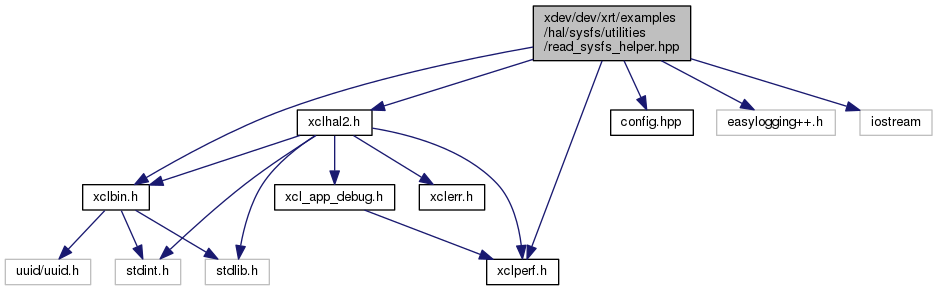
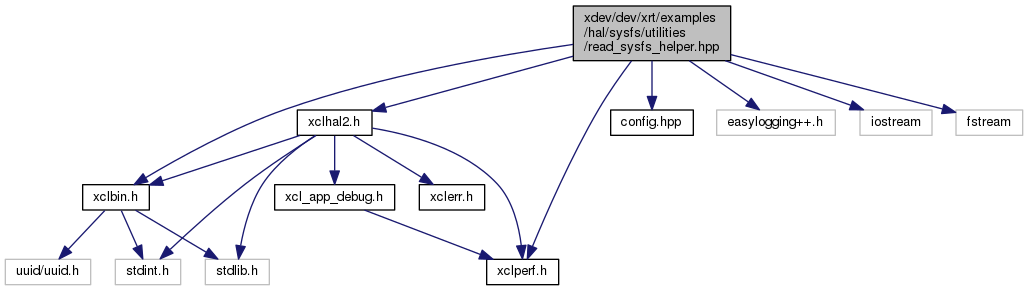
update developer doc

Changed region(s): [[0.0, 0.0, 0.9904, 0.9897], [0.8047, 0.2784, 0.8356, 0.3093], [0.4642, 0.4948, 0.4952, 0.5258]]

diff --git a/docs/developer/html/sysfs__demo_8cpp_source.html b/docs/developer/html/sysfs__demo_8cpp_source.html
@@ -89,7 +89,7 @@ var searchBox = new SearchBox("searchBox", "search",false,'Search');
 <div class="title">sysfs_demo.cpp</div>  </div>
 </div><!--header-->
 <div class="contents">
-<a href="sysfs__demo_8cpp.html">Go to the documentation of this file.</a><div class="fragment"><div class="line"><a name="l00001"></a><span class="lineno">    1</span>&#160;</div><div class="line"><a name="l00003"></a><span class="lineno">    3</span>&#160;<span class="preprocessor">#include &quot;xclhal2.h&quot;</span></div><div class="line"><a name="l00004"></a><span class="lineno">    4</span>&#160;<span class="preprocessor">#include &quot;xclperf.h&quot;</span></div><div class="line"><a name="l00005"></a><span class="lineno">    5</span>&#160;<span class="preprocessor">#include &quot;xclbin.h&quot;</span></div><div class="line"><a name="l00006"></a><span class="lineno">    6</span>&#160;<span class="preprocessor">#include &quot;<a class="code" href="read__sysfs__helper_8hpp.html">read_sysfs_helper.hpp</a>&quot;</span></div><div class="line"><a name="l00007"></a><span class="lineno">    7</span>&#160;<span class="preprocessor">#include &quot;<a class="code" href="visualize__debug__ip__layout__helper_8hpp.html">visualize_debug_ip_layout_helper.hpp</a>&quot;</span></div><div class="line"><a name="l00008"></a><span class="lineno">    8</span>&#160;<span class="preprocessor">#include &quot;easylogging++.h&quot;</span></div><div class="line"><a name="l00009"></a><span class="lineno">    9</span>&#160;<span class="preprocessor">#include &quot;<a class="code" href="xclbin__helper_8hpp.html">xclbin_helper.hpp</a>&quot;</span></div><div class="line"><a name="l00010"></a><span class="lineno">   10</span>&#160;<span class="preprocessor">#include &lt;iostream&gt;</span></div><div class="line"><a name="l00011"></a><span class="lineno">   11</span>&#160;</div><div class="line"><a name="l00012"></a><span class="lineno">   12</span>&#160;INITIALIZE_EASYLOGGINGPP</div><div class="line"><a name="l00013"></a><span class="lineno">   13</span>&#160;</div><div class="line"><a name="l00014"></a><span class="lineno">   14</span>&#160;<span class="keyword">using namespace </span><a class="code" href="namespacestd.html">std</a>;</div><div class="line"><a name="l00015"></a><span class="lineno">   15</span>&#160;</div><div class="line"><a name="l00027"></a><span class="lineno"><a class="line" href="group__hal__api__demo.html#gadfa50500e1075c9fabbecbf1c06fdebd">   27</a></span>&#160;<span class="keywordtype">int</span> <a class="code" href="group__hal__api__demo.html#gadfa50500e1075c9fabbecbf1c06fdebd">sysfs_demo</a>(<span class="keywordtype">int</span> argc, <span class="keywordtype">char</span>* argv[]) {</div><div class="line"><a name="l00032"></a><span class="lineno">   32</span>&#160;    START_EASYLOGGINGPP(argc, argv);</div><div class="line"><a name="l00033"></a><span class="lineno">   33</span>&#160;    LOG(INFO) &lt;&lt; <span class="stringliteral">&quot;Starting Sysfs HAL API example ...&quot;</span>;</div><div class="line"><a name="l00034"></a><span class="lineno">   34</span>&#160;    <span class="keywordtype">int</span> device_count = <a class="code" href="group__devman.html#ga3807247726142d702a848490a7fc6c34">xclProbe</a>();</div><div class="line"><a name="l00035"></a><span class="lineno">   35</span>&#160;    LOG(INFO) &lt;&lt; <span class="stringliteral">&quot;Found &quot;</span> &lt;&lt; device_count &lt;&lt; <span class="stringliteral">&quot; devices&quot;</span>;</div><div class="line"><a name="l00036"></a><span class="lineno">   36</span>&#160;    <span class="keywordflow">if</span> (device_count == 0) {</div><div class="line"><a name="l00037"></a><span class="lineno">   37</span>&#160;        LOG(ERROR) &lt;&lt; <span class="stringliteral">&quot;No device found&quot;</span>;</div><div class="line"><a name="l00038"></a><span class="lineno">   38</span>&#160;        <span class="keywordflow">return</span> -1;</div><div class="line"><a name="l00039"></a><span class="lineno">   39</span>&#160;    }</div><div class="line"><a name="l00040"></a><span class="lineno">   40</span>&#160;    LOG(INFO) &lt;&lt; <span class="stringliteral">&quot;Opening device[0] ...&quot;</span>;</div><div class="line"><a name="l00041"></a><span class="lineno">   41</span>&#160;    <span class="keywordtype">unsigned</span> device_index = 0;</div><div class="line"><a name="l00042"></a><span class="lineno">   42</span>&#160;    xclDeviceHandle device_handle = <a class="code" href="group__devman.html#ga6b427f31409aa2a1e6381cbe6a0620f2">xclOpen</a>(device_index, <span class="stringliteral">&quot;sysfs_example.log&quot;</span>, xclVerbosityLevel::XCL_INFO);</div><div class="line"><a name="l00043"></a><span class="lineno">   43</span>&#160;    LOG(INFO) &lt;&lt; <span class="stringliteral">&quot;device[0] opened&quot;</span>;</div><div class="line"><a name="l00044"></a><span class="lineno">   44</span>&#160;    LOG(INFO) &lt;&lt; <span class="stringliteral">&quot;Loading xclbin ...&quot;</span>;</div><div class="line"><a name="l00045"></a><span class="lineno">   45</span>&#160;    <a class="code" href="xclbin__helper_8hpp.html#a6cd63f24c0fe661e7e0c318bfe5a23e5">load_xclbin_with_hal_api</a>(<span class="stringliteral">&quot;alveo_u200_2018_3_1/hello/hello_kernel_hw_all.xclbin&quot;</span>, device_handle);</div><div class="line"><a name="l00046"></a><span class="lineno">   46</span>&#160;    LOG(INFO) &lt;&lt; <span class="stringliteral">&quot;xclbin loaded&quot;</span>;</div><div class="line"><a name="l00047"></a><span class="lineno">   47</span>&#160;    <span class="keywordtype">char</span> data[<a class="code" href="config_8hpp.html#a6180b66cb9f6a7b87262e38996479f85">MAX_DEBUG_IP_LAYOUT_SIZE</a>];</div><div class="line"><a name="l00048"></a><span class="lineno">   48</span>&#160;    LOG(INFO) &lt;&lt; <span class="stringliteral">&quot;Querying device[0] sysfs ...&quot;</span>;</div><div class="line"><a name="l00049"></a><span class="lineno">   49</span>&#160;    LOG(INFO) &lt;&lt; <span class="stringliteral">&quot;Querying device[0] sysfs with fixed size ...&quot;</span>;</div><div class="line"><a name="l00050"></a><span class="lineno">   50</span>&#160;    <a class="code" href="read__sysfs__helper_8hpp.html#a5fd6e363beb90e1b0b7f2376fb8ef519">read_sysfs_with_config</a>(device_handle, <span class="keyword">false</span>, <span class="stringliteral">&quot;&quot;</span>, <span class="stringliteral">&quot;debug_ip_layout&quot;</span>, <a class="code" href="config_8hpp.html#a6180b66cb9f6a7b87262e38996479f85">MAX_DEBUG_IP_LAYOUT_SIZE</a>, (<span class="keywordtype">void</span>*)&amp;data[0]);</div><div class="line"><a name="l00051"></a><span class="lineno">   51</span>&#160;    LOG(INFO) &lt;&lt; <span class="stringliteral">&quot;Visualizing query result for Debug IP Layout ...&quot;</span>;</div><div class="line"><a name="l00052"></a><span class="lineno">   52</span>&#160;    <a class="code" href="visualize__debug__ip__layout__helper_8hpp.html#a4d5e15b12291d30bb1ca319421f87f4a">visualize_debug_ip_layout</a>((<span class="keywordtype">void</span>*)&amp;data[0]);</div><div class="line"><a name="l00053"></a><span class="lineno">   53</span>&#160;    LOG(INFO) &lt;&lt; <span class="stringliteral">&quot;Querying device[0] sysfs with auto size detection ...&quot;</span>;</div><div class="line"><a name="l00054"></a><span class="lineno">   54</span>&#160;    <a class="code" href="read__sysfs__helper_8hpp.html#a5fd6e363beb90e1b0b7f2376fb8ef519">read_sysfs_with_config</a>(device_handle, <span class="keyword">true</span>, <span class="stringliteral">&quot;&quot;</span>, <span class="stringliteral">&quot;debug_ip_layout&quot;</span>, 0, (<span class="keywordtype">void</span>*)&amp;data[0]);</div><div class="line"><a name="l00055"></a><span class="lineno">   55</span>&#160;    LOG(INFO) &lt;&lt; <span class="stringliteral">&quot;Visualizing query result for Debug IP Layout ...&quot;</span>;</div><div class="line"><a name="l00056"></a><span class="lineno">   56</span>&#160;    <a class="code" href="visualize__debug__ip__layout__helper_8hpp.html#a4d5e15b12291d30bb1ca319421f87f4a">visualize_debug_ip_layout</a>((<span class="keywordtype">void</span>*)&amp;data[0]);</div><div class="line"><a name="l00057"></a><span class="lineno">   57</span>&#160;    LOG(INFO) &lt;&lt; <span class="stringliteral">&quot;Querying device[0] sysfs with auto size detection and size as non-zero (should throw an error) ...&quot;</span>;</div><div class="line"><a name="l00058"></a><span class="lineno">   58</span>&#160;    <span class="keywordtype">bool</span> expected_exception_caught = <span class="keyword">false</span>;</div><div class="line"><a name="l00059"></a><span class="lineno">   59</span>&#160;    <span class="keywordflow">try</span> {</div><div class="line"><a name="l00060"></a><span class="lineno">   60</span>&#160;        <a class="code" href="read__sysfs__helper_8hpp.html#a5fd6e363beb90e1b0b7f2376fb8ef519">read_sysfs_with_config</a>(device_handle, <span class="keyword">true</span>, <span class="stringliteral">&quot;&quot;</span>, <span class="stringliteral">&quot;debug_ip_layout&quot;</span>, 10, (<span class="keywordtype">void</span>*)&amp;data[0]);</div><div class="line"><a name="l00061"></a><span class="lineno">   61</span>&#160;    } <span class="keywordflow">catch</span> (<span class="keyword">const</span> runtime_error&amp; e) {</div><div class="line"><a name="l00062"></a><span class="lineno">   62</span>&#160;        <span class="keywordtype">string</span> expected_error_msg = <span class="stringliteral">&quot;Read sysfs failed&quot;</span>;</div><div class="line"><a name="l00063"></a><span class="lineno">   63</span>&#160;        <span class="keywordflow">if</span> (<span class="keywordtype">string</span>(e.what()) == expected_error_msg) {</div><div class="line"><a name="l00064"></a><span class="lineno">   64</span>&#160;            LOG(INFO) &lt;&lt; <span class="stringliteral">&quot;Expected failure with error message: &quot;</span> &lt;&lt; e.what();</div><div class="line"><a name="l00065"></a><span class="lineno">   65</span>&#160;            expected_exception_caught = <span class="keyword">true</span>;</div><div class="line"><a name="l00066"></a><span class="lineno">   66</span>&#160;        } <span class="keywordflow">else</span> {</div><div class="line"><a name="l00067"></a><span class="lineno">   67</span>&#160;            LOG(INFO) &lt;&lt; <span class="stringliteral">&quot;Unexpected failure with error message: &quot;</span> &lt;&lt; e.what() &lt;&lt; <span class="stringliteral">&quot;, expecting &quot;</span> &lt;&lt; expected_error_msg;</div><div class="line"><a name="l00068"></a><span class="lineno">   68</span>&#160;        }</div><div class="line"><a name="l00069"></a><span class="lineno">   69</span>&#160;    }</div><div class="line"><a name="l00070"></a><span class="lineno">   70</span>&#160;    <span class="keywordflow">if</span> (!expected_exception_caught) {</div><div class="line"><a name="l00071"></a><span class="lineno">   71</span>&#160;        LOG(INFO) &lt;&lt; <span class="stringliteral">&quot;Query with read_all and size as non-zero should throw an exception, but non seen&quot;</span>;</div><div class="line"><a name="l00072"></a><span class="lineno">   72</span>&#160;        <span class="keywordflow">throw</span> runtime_error(<span class="stringliteral">&quot;Expected exception not seen&quot;</span>);</div><div class="line"><a name="l00073"></a><span class="lineno">   73</span>&#160;    }</div><div class="line"><a name="l00074"></a><span class="lineno">   74</span>&#160;    LOG(INFO) &lt;&lt; <span class="stringliteral">&quot;Closing device[0] ...&quot;</span>;</div><div class="line"><a name="l00075"></a><span class="lineno">   75</span>&#160;    <a class="code" href="group__devman.html#ga6a54c099ac42027357bdec1953ab4a15">xclClose</a>(device_handle);</div><div class="line"><a name="l00076"></a><span class="lineno">   76</span>&#160;    LOG(INFO) &lt;&lt; <span class="stringliteral">&quot;device[0] closed&quot;</span>;</div><div class="line"><a name="l00077"></a><span class="lineno">   77</span>&#160;    <span class="keywordflow">return</span> 0;</div><div class="line"><a name="l00078"></a><span class="lineno">   78</span>&#160;}</div><div class="line"><a name="l00079"></a><span class="lineno">   79</span>&#160;</div><div class="line"><a name="l00080"></a><span class="lineno">   80</span>&#160;<span class="keywordtype">int</span> <a class="code" href="probe__demo_8cpp.html#a0ddf1224851353fc92bfbff6f499fa97">main</a>(<span class="keywordtype">int</span> argc, <span class="keywordtype">char</span>* argv[]) {</div><div class="line"><a name="l00081"></a><span class="lineno">   81</span>&#160;    <span class="keywordflow">return</span> <a class="code" href="group__hal__api__demo.html#gadfa50500e1075c9fabbecbf1c06fdebd">sysfs_demo</a>(argc, argv);</div><div class="line"><a name="l00082"></a><span class="lineno">   82</span>&#160;}</div><div class="ttc" id="group__devman_html_ga3807247726142d702a848490a7fc6c34"><div class="ttname"><a href="group__devman.html#ga3807247726142d702a848490a7fc6c34">xclProbe</a></div><div class="ttdeci">XCL_DRIVER_DLLESPEC unsigned xclProbe()</div></div>
+<a href="sysfs__demo_8cpp.html">Go to the documentation of this file.</a><div class="fragment"><div class="line"><a name="l00001"></a><span class="lineno">    1</span>&#160;</div><div class="line"><a name="l00003"></a><span class="lineno">    3</span>&#160;<span class="preprocessor">#include &quot;xclhal2.h&quot;</span></div><div class="line"><a name="l00004"></a><span class="lineno">    4</span>&#160;<span class="preprocessor">#include &quot;xclperf.h&quot;</span></div><div class="line"><a name="l00005"></a><span class="lineno">    5</span>&#160;<span class="preprocessor">#include &quot;xclbin.h&quot;</span></div><div class="line"><a name="l00006"></a><span class="lineno">    6</span>&#160;<span class="preprocessor">#include &quot;<a class="code" href="read__sysfs__helper_8hpp.html">read_sysfs_helper.hpp</a>&quot;</span></div><div class="line"><a name="l00007"></a><span class="lineno">    7</span>&#160;<span class="preprocessor">#include &quot;<a class="code" href="visualize__debug__ip__layout__helper_8hpp.html">visualize_debug_ip_layout_helper.hpp</a>&quot;</span></div><div class="line"><a name="l00008"></a><span class="lineno">    8</span>&#160;<span class="preprocessor">#include &quot;easylogging++.h&quot;</span></div><div class="line"><a name="l00009"></a><span class="lineno">    9</span>&#160;<span class="preprocessor">#include &quot;<a class="code" href="xclbin__helper_8hpp.html">xclbin_helper.hpp</a>&quot;</span></div><div class="line"><a name="l00010"></a><span class="lineno">   10</span>&#160;<span class="preprocessor">#include &lt;iostream&gt;</span></div><div class="line"><a name="l00011"></a><span class="lineno">   11</span>&#160;</div><div class="line"><a name="l00012"></a><span class="lineno">   12</span>&#160;INITIALIZE_EASYLOGGINGPP</div><div class="line"><a name="l00013"></a><span class="lineno">   13</span>&#160;</div><div class="line"><a name="l00014"></a><span class="lineno">   14</span>&#160;<span class="keyword">using namespace </span><a class="code" href="namespacestd.html">std</a>;</div><div class="line"><a name="l00015"></a><span class="lineno">   15</span>&#160;</div><div class="line"><a name="l00027"></a><span class="lineno"><a class="line" href="group__hal__api__demo.html#gadfa50500e1075c9fabbecbf1c06fdebd">   27</a></span>&#160;<span class="keywordtype">int</span> <a class="code" href="group__hal__api__demo.html#gadfa50500e1075c9fabbecbf1c06fdebd">sysfs_demo</a>(<span class="keywordtype">int</span> argc, <span class="keywordtype">char</span>* argv[]) {</div><div class="line"><a name="l00032"></a><span class="lineno">   32</span>&#160;    START_EASYLOGGINGPP(argc, argv);</div><div class="line"><a name="l00033"></a><span class="lineno">   33</span>&#160;    LOG(INFO) &lt;&lt; <span class="stringliteral">&quot;Starting Sysfs HAL API example ...&quot;</span>;</div><div class="line"><a name="l00034"></a><span class="lineno">   34</span>&#160;    <span class="keywordtype">int</span> device_count = <a class="code" href="group__devman.html#ga3807247726142d702a848490a7fc6c34">xclProbe</a>();</div><div class="line"><a name="l00035"></a><span class="lineno">   35</span>&#160;    LOG(INFO) &lt;&lt; <span class="stringliteral">&quot;Found &quot;</span> &lt;&lt; device_count &lt;&lt; <span class="stringliteral">&quot; devices&quot;</span>;</div><div class="line"><a name="l00036"></a><span class="lineno">   36</span>&#160;    <span class="keywordflow">if</span> (device_count == 0) {</div><div class="line"><a name="l00037"></a><span class="lineno">   37</span>&#160;        LOG(ERROR) &lt;&lt; <span class="stringliteral">&quot;No device found&quot;</span>;</div><div class="line"><a name="l00038"></a><span class="lineno">   38</span>&#160;        <span class="keywordflow">return</span> -1;</div><div class="line"><a name="l00039"></a><span class="lineno">   39</span>&#160;    }</div><div class="line"><a name="l00040"></a><span class="lineno">   40</span>&#160;    LOG(INFO) &lt;&lt; <span class="stringliteral">&quot;Opening device[0] ...&quot;</span>;</div><div class="line"><a name="l00041"></a><span class="lineno">   41</span>&#160;    <span class="keywordtype">unsigned</span> device_index = 0;</div><div class="line"><a name="l00042"></a><span class="lineno">   42</span>&#160;    xclDeviceHandle device_handle = <a class="code" href="group__devman.html#ga6b427f31409aa2a1e6381cbe6a0620f2">xclOpen</a>(device_index, <span class="stringliteral">&quot;sysfs_example.log&quot;</span>, xclVerbosityLevel::XCL_INFO);</div><div class="line"><a name="l00043"></a><span class="lineno">   43</span>&#160;    LOG(INFO) &lt;&lt; <span class="stringliteral">&quot;device[0] opened&quot;</span>;</div><div class="line"><a name="l00044"></a><span class="lineno">   44</span>&#160;    LOG(INFO) &lt;&lt; <span class="stringliteral">&quot;Loading xclbin ...&quot;</span>;</div><div class="line"><a name="l00045"></a><span class="lineno">   45</span>&#160;    <a class="code" href="xclbin__helper_8hpp.html#a6cd63f24c0fe661e7e0c318bfe5a23e5">load_xclbin_with_hal_api</a>(<span class="stringliteral">&quot;alveo_u200_2018_3_1/hello/hello_kernel_hw_all.xclbin&quot;</span>, device_handle);</div><div class="line"><a name="l00046"></a><span class="lineno">   46</span>&#160;    LOG(INFO) &lt;&lt; <span class="stringliteral">&quot;xclbin loaded&quot;</span>;</div><div class="line"><a name="l00047"></a><span class="lineno">   47</span>&#160;    <span class="keywordtype">char</span> data[<a class="code" href="config_8hpp.html#a6180b66cb9f6a7b87262e38996479f85">MAX_DEBUG_IP_LAYOUT_SIZE</a>];</div><div class="line"><a name="l00048"></a><span class="lineno">   48</span>&#160;    LOG(INFO) &lt;&lt; <span class="stringliteral">&quot;Querying device[0] sysfs ...&quot;</span>;</div><div class="line"><a name="l00049"></a><span class="lineno">   49</span>&#160;    LOG(INFO) &lt;&lt; <span class="stringliteral">&quot;Querying device[0] sysfs with fixed size ...&quot;</span>;</div><div class="line"><a name="l00050"></a><span class="lineno">   50</span>&#160;    <a class="code" href="read__sysfs__helper_8hpp.html#a3a2b8407eb8a504ce33c1b08363262db">read_sysfs_with_config</a>(device_handle, <span class="stringliteral">&quot;icap&quot;</span>, <span class="stringliteral">&quot;debug_ip_layout&quot;</span>, <a class="code" href="config_8hpp.html#a6180b66cb9f6a7b87262e38996479f85">MAX_DEBUG_IP_LAYOUT_SIZE</a>, (<span class="keywordtype">void</span>*)&amp;data[0]);</div><div class="line"><a name="l00051"></a><span class="lineno">   51</span>&#160;    LOG(INFO) &lt;&lt; <span class="stringliteral">&quot;Visualizing query result for Debug IP Layout ...&quot;</span>;</div><div class="line"><a name="l00052"></a><span class="lineno">   52</span>&#160;    <a class="code" href="visualize__debug__ip__layout__helper_8hpp.html#a4d5e15b12291d30bb1ca319421f87f4a">visualize_debug_ip_layout</a>((<span class="keywordtype">void</span>*)&amp;data[0]);</div><div class="line"><a name="l00053"></a><span class="lineno">   53</span>&#160;    LOG(INFO) &lt;&lt; <span class="stringliteral">&quot;Querying device[0] sysfs with auto size detection ...&quot;</span>;</div><div class="line"><a name="l00054"></a><span class="lineno">   54</span>&#160;    <a class="code" href="read__sysfs__helper_8hpp.html#a3a2b8407eb8a504ce33c1b08363262db">read_sysfs_with_config</a>(device_handle, <span class="stringliteral">&quot;icap&quot;</span>, <span class="stringliteral">&quot;debug_ip_layout&quot;</span>, 0, (<span class="keywordtype">void</span>*)&amp;data[0]);</div><div class="line"><a name="l00055"></a><span class="lineno">   55</span>&#160;    LOG(INFO) &lt;&lt; <span class="stringliteral">&quot;Visualizing query result for Debug IP Layout ...&quot;</span>;</div><div class="line"><a name="l00056"></a><span class="lineno">   56</span>&#160;    <a class="code" href="visualize__debug__ip__layout__helper_8hpp.html#a4d5e15b12291d30bb1ca319421f87f4a">visualize_debug_ip_layout</a>((<span class="keywordtype">void</span>*)&amp;data[0]);</div><div class="line"><a name="l00057"></a><span class="lineno">   57</span>&#160;    LOG(INFO) &lt;&lt; <span class="stringliteral">&quot;Closing device[0] ...&quot;</span>;</div><div class="line"><a name="l00058"></a><span class="lineno">   58</span>&#160;    <a class="code" href="group__devman.html#ga6a54c099ac42027357bdec1953ab4a15">xclClose</a>(device_handle);</div><div class="line"><a name="l00059"></a><span class="lineno">   59</span>&#160;    LOG(INFO) &lt;&lt; <span class="stringliteral">&quot;device[0] closed&quot;</span>;</div><div class="line"><a name="l00060"></a><span class="lineno">   60</span>&#160;    <span class="keywordflow">return</span> 0;</div><div class="line"><a name="l00061"></a><span class="lineno">   61</span>&#160;}</div><div class="line"><a name="l00062"></a><span class="lineno">   62</span>&#160;</div><div class="line"><a name="l00063"></a><span class="lineno">   63</span>&#160;<span class="keywordtype">int</span> <a class="code" href="probe__demo_8cpp.html#a0ddf1224851353fc92bfbff6f499fa97">main</a>(<span class="keywordtype">int</span> argc, <span class="keywordtype">char</span>* argv[]) {</div><div class="line"><a name="l00064"></a><span class="lineno">   64</span>&#160;    <span class="keywordflow">return</span> <a class="code" href="group__hal__api__demo.html#gadfa50500e1075c9fabbecbf1c06fdebd">sysfs_demo</a>(argc, argv);</div><div class="line"><a name="l00065"></a><span class="lineno">   65</span>&#160;}</div><div class="ttc" id="group__devman_html_ga3807247726142d702a848490a7fc6c34"><div class="ttname"><a href="group__devman.html#ga3807247726142d702a848490a7fc6c34">xclProbe</a></div><div class="ttdeci">XCL_DRIVER_DLLESPEC unsigned xclProbe()</div></div>
 <div class="ttc" id="read__sysfs__helper_8hpp_html"><div class="ttname"><a href="read__sysfs__helper_8hpp.html">read_sysfs_helper.hpp</a></div></div>
 <div class="ttc" id="namespacestd_html"><div class="ttname"><a href="namespacestd.html">std</a></div></div>
 <div class="ttc" id="group__hal__api__demo_html_gadfa50500e1075c9fabbecbf1c06fdebd"><div class="ttname"><a href="group__hal__api__demo.html#gadfa50500e1075c9fabbecbf1c06fdebd">sysfs_demo</a></div><div class="ttdeci">int sysfs_demo(int argc, char *argv[])</div><div class="ttdef"><b>Definition:</b> <a href="sysfs__demo_8cpp_source.html#l00027">sysfs_demo.cpp:27</a></div></div>
@@ -100,8 +100,8 @@ var searchBox = new SearchBox("searchBox", "search",false,'Search');
 <div class="ttc" id="group__devman_html_ga6a54c099ac42027357bdec1953ab4a15"><div class="ttname"><a href="group__devman.html#ga6a54c099ac42027357bdec1953ab4a15">xclClose</a></div><div class="ttdeci">XCL_DRIVER_DLLESPEC void xclClose(xclDeviceHandle handle)</div></div>
 <div class="ttc" id="group__devman_html_ga6b427f31409aa2a1e6381cbe6a0620f2"><div class="ttname"><a href="group__devman.html#ga6b427f31409aa2a1e6381cbe6a0620f2">xclOpen</a></div><div class="ttdeci">XCL_DRIVER_DLLESPEC xclDeviceHandle xclOpen(unsigned deviceIndex, const char *logFileName, xclVerbosityLevel level)</div></div>
 <div class="ttc" id="probe__demo_8cpp_html_a0ddf1224851353fc92bfbff6f499fa97"><div class="ttname"><a href="probe__demo_8cpp.html#a0ddf1224851353fc92bfbff6f499fa97">main</a></div><div class="ttdeci">int main(int argc, char *argv[])</div><div class="ttdef"><b>Definition:</b> <a href="probe__demo_8cpp_source.html#l00014">probe_demo.cpp:14</a></div></div>
-<div class="ttc" id="read__sysfs__helper_8hpp_html_a5fd6e363beb90e1b0b7f2376fb8ef519"><div class="ttname"><a href="read__sysfs__helper_8hpp.html#a5fd6e363beb90e1b0b7f2376fb8ef519">read_sysfs_with_config</a></div><div class="ttdeci">void read_sysfs_with_config(xclDeviceHandle device_handle, bool read_all, string subdev, string entry, unsigned int size, void *data)</div><div class="ttdef"><b>Definition:</b> <a href="read__sysfs__helper_8hpp_source.html#l00024">read_sysfs_helper.hpp:24</a></div></div>
 <div class="ttc" id="xclbin__helper_8hpp_html"><div class="ttname"><a href="xclbin__helper_8hpp.html">xclbin_helper.hpp</a></div></div>
+<div class="ttc" id="read__sysfs__helper_8hpp_html_a3a2b8407eb8a504ce33c1b08363262db"><div class="ttname"><a href="read__sysfs__helper_8hpp.html#a3a2b8407eb8a504ce33c1b08363262db">read_sysfs_with_config</a></div><div class="ttdeci">void read_sysfs_with_config(xclDeviceHandle device_handle, string subdev, string entry, unsigned int size, void *data)</div><div class="ttdef"><b>Definition:</b> <a href="read__sysfs__helper_8hpp_source.html#l00025">read_sysfs_helper.hpp:25</a></div></div>
 </div><!-- fragment --></div><!-- contents -->
 <!-- start footer part -->
 <hr class="footer"/><address class="footer"><small>

diff --git a/docs/developer/html/read__sysfs__helper_8hpp_source.html b/docs/developer/html/read__sysfs__helper_8hpp_source.html
@@ -89,9 +89,9 @@ var searchBox = new SearchBox("searchBox", "search",false,'Search');
 <div class="title">read_sysfs_helper.hpp</div>  </div>
 </div><!--header-->
 <div class="contents">
-<a href="read__sysfs__helper_8hpp.html">Go to the documentation of this file.</a><div class="fragment"><div class="line"><a name="l00001"></a><span class="lineno">    1</span>&#160;</div><div class="line"><a name="l00003"></a><span class="lineno">    3</span>&#160;<span class="preprocessor">#ifndef __READ_SYSFS_HELPER__</span></div><div class="line"><a name="l00004"></a><span class="lineno">    4</span>&#160;<span class="preprocessor">#define __READ_SYSFS_HELPER__</span></div><div class="line"><a name="l00005"></a><span class="lineno">    5</span>&#160;</div><div class="line"><a name="l00006"></a><span class="lineno">    6</span>&#160;<span class="preprocessor">#include &quot;xclhal2.h&quot;</span></div><div class="line"><a name="l00007"></a><span class="lineno">    7</span>&#160;<span class="preprocessor">#include &quot;xclperf.h&quot;</span></div><div class="line"><a name="l00008"></a><span class="lineno">    8</span>&#160;<span class="preprocessor">#include &quot;xclbin.h&quot;</span></div><div class="line"><a name="l00009"></a><span class="lineno">    9</span>&#160;<span class="preprocessor">#include &quot;<a class="code" href="config_8hpp.html">config.hpp</a>&quot;</span></div><div class="line"><a name="l00010"></a><span class="lineno">   10</span>&#160;<span class="preprocessor">#include &quot;easylogging++.h&quot;</span></div><div class="line"><a name="l00011"></a><span class="lineno">   11</span>&#160;<span class="preprocessor">#include &lt;iostream&gt;</span></div><div class="line"><a name="l00012"></a><span class="lineno">   12</span>&#160;</div><div class="line"><a name="l00013"></a><span class="lineno">   13</span>&#160;<span class="keyword">using namespace </span><a class="code" href="namespacestd.html">std</a>;</div><div class="line"><a name="l00014"></a><span class="lineno">   14</span>&#160;</div><div class="line"><a name="l00024"></a><span class="lineno"><a class="line" href="read__sysfs__helper_8hpp.html#a5fd6e363beb90e1b0b7f2376fb8ef519">   24</a></span>&#160;<span class="keywordtype">void</span> <a class="code" href="read__sysfs__helper_8hpp.html#a5fd6e363beb90e1b0b7f2376fb8ef519">read_sysfs_with_config</a>(</div><div class="line"><a name="l00025"></a><span class="lineno">   25</span>&#160;    xclDeviceHandle device_handle ,</div><div class="line"><a name="l00026"></a><span class="lineno">   26</span>&#160;    <span class="keywordtype">bool</span> read_all , </div><div class="line"><a name="l00027"></a><span class="lineno">   27</span>&#160;    <span class="keywordtype">string</span> subdev , </div><div class="line"><a name="l00028"></a><span class="lineno">   28</span>&#160;    <span class="keywordtype">string</span> entry , </div><div class="line"><a name="l00029"></a><span class="lineno">   29</span>&#160;    <span class="keywordtype">unsigned</span> <span class="keywordtype">int</span> size ,</div><div class="line"><a name="l00030"></a><span class="lineno">   30</span>&#160;    <span class="keywordtype">void</span>* data )</div><div class="line"><a name="l00031"></a><span class="lineno">   31</span>&#160;{</div><div class="line"><a name="l00032"></a><span class="lineno">   32</span>&#160;    xclSysfsQuery query;</div><div class="line"><a name="l00033"></a><span class="lineno">   33</span>&#160;    strcpy(query.subdev, subdev.c_str());</div><div class="line"><a name="l00034"></a><span class="lineno">   34</span>&#160;    strcpy(query.entry, entry.c_str());</div><div class="line"><a name="l00035"></a><span class="lineno">   35</span>&#160;    query.read_all = read_all;</div><div class="line"><a name="l00036"></a><span class="lineno">   36</span>&#160;    query.size = size;</div><div class="line"><a name="l00037"></a><span class="lineno">   37</span>&#160;    <span class="keywordtype">int</span> err = xclReadSysfs(device_handle, query, data);</div><div class="line"><a name="l00038"></a><span class="lineno">   38</span>&#160;    LOG(INFO) &lt;&lt; <span class="stringliteral">&quot;Query device[0] sysfs finished ...&quot;</span>;</div><div class="line"><a name="l00039"></a><span class="lineno">   39</span>&#160;    <span class="keywordflow">if</span> (err) {</div><div class="line"><a name="l00040"></a><span class="lineno">   40</span>&#160;        LOG(ERROR) &lt;&lt; <span class="stringliteral">&quot;Reading sysfs result failed&quot;</span>;</div><div class="line"><a name="l00041"></a><span class="lineno">   41</span>&#160;        <span class="keywordflow">throw</span> runtime_error(<span class="stringliteral">&quot;Read sysfs failed&quot;</span>);</div><div class="line"><a name="l00042"></a><span class="lineno">   42</span>&#160;    }</div><div class="line"><a name="l00043"></a><span class="lineno">   43</span>&#160;}</div><div class="line"><a name="l00044"></a><span class="lineno">   44</span>&#160;</div><div class="line"><a name="l00045"></a><span class="lineno">   45</span>&#160;<span class="preprocessor">#endif</span></div><div class="ttc" id="namespacestd_html"><div class="ttname"><a href="namespacestd.html">std</a></div></div>
+<a href="read__sysfs__helper_8hpp.html">Go to the documentation of this file.</a><div class="fragment"><div class="line"><a name="l00001"></a><span class="lineno">    1</span>&#160;</div><div class="line"><a name="l00003"></a><span class="lineno">    3</span>&#160;<span class="preprocessor">#ifndef __READ_SYSFS_HELPER__</span></div><div class="line"><a name="l00004"></a><span class="lineno">    4</span>&#160;<span class="preprocessor">#define __READ_SYSFS_HELPER__</span></div><div class="line"><a name="l00005"></a><span class="lineno">    5</span>&#160;</div><div class="line"><a name="l00006"></a><span class="lineno">    6</span>&#160;<span class="preprocessor">#include &quot;xclhal2.h&quot;</span></div><div class="line"><a name="l00007"></a><span class="lineno">    7</span>&#160;<span class="preprocessor">#include &quot;xclperf.h&quot;</span></div><div class="line"><a name="l00008"></a><span class="lineno">    8</span>&#160;<span class="preprocessor">#include &quot;xclbin.h&quot;</span></div><div class="line"><a name="l00009"></a><span class="lineno">    9</span>&#160;<span class="preprocessor">#include &quot;<a class="code" href="config_8hpp.html">config.hpp</a>&quot;</span></div><div class="line"><a name="l00010"></a><span class="lineno">   10</span>&#160;<span class="preprocessor">#include &quot;easylogging++.h&quot;</span></div><div class="line"><a name="l00011"></a><span class="lineno">   11</span>&#160;<span class="preprocessor">#include &lt;iostream&gt;</span></div><div class="line"><a name="l00012"></a><span class="lineno">   12</span>&#160;<span class="preprocessor">#include &lt;fstream&gt;</span></div><div class="line"><a name="l00013"></a><span class="lineno">   13</span>&#160;</div><div class="line"><a name="l00014"></a><span class="lineno">   14</span>&#160;<span class="keyword">using namespace </span><a class="code" href="namespacestd.html">std</a>;</div><div class="line"><a name="l00015"></a><span class="lineno">   15</span>&#160;</div><div class="line"><a name="l00025"></a><span class="lineno"><a class="line" href="read__sysfs__helper_8hpp.html#a3a2b8407eb8a504ce33c1b08363262db">   25</a></span>&#160;<span class="keywordtype">void</span> <a class="code" href="read__sysfs__helper_8hpp.html#a3a2b8407eb8a504ce33c1b08363262db">read_sysfs_with_config</a>(</div><div class="line"><a name="l00026"></a><span class="lineno">   26</span>&#160;    xclDeviceHandle device_handle ,</div><div class="line"><a name="l00027"></a><span class="lineno">   27</span>&#160;    <span class="keywordtype">string</span> subdev , </div><div class="line"><a name="l00028"></a><span class="lineno">   28</span>&#160;    <span class="keywordtype">string</span> entry , </div><div class="line"><a name="l00029"></a><span class="lineno">   29</span>&#160;    <span class="keywordtype">unsigned</span> <span class="keywordtype">int</span> size ,</div><div class="line"><a name="l00030"></a><span class="lineno">   30</span>&#160;    <span class="keywordtype">void</span>* data )</div><div class="line"><a name="l00031"></a><span class="lineno">   31</span>&#160;{</div><div class="line"><a name="l00032"></a><span class="lineno">   32</span>&#160;    <span class="keywordtype">char</span> sysfs_path[256];</div><div class="line"><a name="l00033"></a><span class="lineno">   33</span>&#160;    <span class="keywordtype">int</span> err = xclGetSysfsPath(device_handle, subdev.c_str(), entry.c_str(), sysfs_path, 256);</div><div class="line"><a name="l00034"></a><span class="lineno">   34</span>&#160;    LOG(INFO) &lt;&lt; <span class="stringliteral">&quot;Query device[0] sysfs finished ...&quot;</span>;</div><div class="line"><a name="l00035"></a><span class="lineno">   35</span>&#160;    <span class="keywordflow">if</span> (err) {</div><div class="line"><a name="l00036"></a><span class="lineno">   36</span>&#160;        LOG(ERROR) &lt;&lt; <span class="stringliteral">&quot;Reading sysfs path failed&quot;</span>;</div><div class="line"><a name="l00037"></a><span class="lineno">   37</span>&#160;        <span class="keywordflow">throw</span> runtime_error(<span class="stringliteral">&quot;Read sysfs path failed&quot;</span>);</div><div class="line"><a name="l00038"></a><span class="lineno">   38</span>&#160;    }</div><div class="line"><a name="l00039"></a><span class="lineno">   39</span>&#160;    LOG(INFO) &lt;&lt; <span class="stringliteral">&quot;Sysfs full path: &quot;</span> &lt;&lt; string(sysfs_path);</div><div class="line"><a name="l00040"></a><span class="lineno">   40</span>&#160;    ifstream fs(sysfs_path, ifstream::binary);</div><div class="line"><a name="l00041"></a><span class="lineno">   41</span>&#160;    <span class="keywordflow">if</span> (fs.is_open()) {</div><div class="line"><a name="l00042"></a><span class="lineno">   42</span>&#160;        fs.read((<span class="keywordtype">char</span>*)data, size);</div><div class="line"><a name="l00043"></a><span class="lineno">   43</span>&#160;        fs.close();</div><div class="line"><a name="l00044"></a><span class="lineno">   44</span>&#160;    } <span class="keywordflow">else</span> {</div><div class="line"><a name="l00045"></a><span class="lineno">   45</span>&#160;        LOG(ERROR) &lt;&lt; <span class="stringliteral">&quot;Failed to open sysfs&quot;</span>;</div><div class="line"><a name="l00046"></a><span class="lineno">   46</span>&#160;        <span class="keywordflow">throw</span> runtime_error(<span class="stringliteral">&quot;Read sysfs failed&quot;</span>);</div><div class="line"><a name="l00047"></a><span class="lineno">   47</span>&#160;    }</div><div class="line"><a name="l00048"></a><span class="lineno">   48</span>&#160;}</div><div class="line"><a name="l00049"></a><span class="lineno">   49</span>&#160;</div><div class="line"><a name="l00050"></a><span class="lineno">   50</span>&#160;<span class="preprocessor">#endif</span></div><div class="ttc" id="namespacestd_html"><div class="ttname"><a href="namespacestd.html">std</a></div></div>
 <div class="ttc" id="config_8hpp_html"><div class="ttname"><a href="config_8hpp.html">config.hpp</a></div></div>
-<div class="ttc" id="read__sysfs__helper_8hpp_html_a5fd6e363beb90e1b0b7f2376fb8ef519"><div class="ttname"><a href="read__sysfs__helper_8hpp.html#a5fd6e363beb90e1b0b7f2376fb8ef519">read_sysfs_with_config</a></div><div class="ttdeci">void read_sysfs_with_config(xclDeviceHandle device_handle, bool read_all, string subdev, string entry, unsigned int size, void *data)</div><div class="ttdef"><b>Definition:</b> <a href="read__sysfs__helper_8hpp_source.html#l00024">read_sysfs_helper.hpp:24</a></div></div>
+<div class="ttc" id="read__sysfs__helper_8hpp_html_a3a2b8407eb8a504ce33c1b08363262db"><div class="ttname"><a href="read__sysfs__helper_8hpp.html#a3a2b8407eb8a504ce33c1b08363262db">read_sysfs_with_config</a></div><div class="ttdeci">void read_sysfs_with_config(xclDeviceHandle device_handle, string subdev, string entry, unsigned int size, void *data)</div><div class="ttdef"><b>Definition:</b> <a href="read__sysfs__helper_8hpp_source.html#l00025">read_sysfs_helper.hpp:25</a></div></div>
 </div><!-- fragment --></div><!-- contents -->
 <!-- start footer part -->
 <hr class="footer"/><address class="footer"><small>

diff --git a/docs/developer/html/read__sysfs__helper_8hpp.html b/docs/developer/html/read__sysfs__helper_8hpp.html
@@ -97,6 +97,7 @@ var searchBox = new SearchBox("searchBox", "search",false,'Search');
 <code>#include &quot;<a class="el" href="config_8hpp_source.html">config.hpp</a>&quot;</code><br />
 <code>#include &quot;easylogging++.h&quot;</code><br />
 <code>#include &lt;iostream&gt;</code><br />
+<code>#include &lt;fstream&gt;</code><br />
 </div><div class="textblock"><div class="dynheader">
 Include dependency graph for read_sysfs_helper.hpp:</div>
 <div class="dyncontent">
@@ -123,11 +124,11 @@ This graph shows which files directly or indirectly include this file:</div>
 <table class="memberdecls">
 <tr class="heading"><td colspan="2"><h2 class="groupheader"><a name="func-members"></a>
 Functions</h2></td></tr>
-<tr class="memitem:a5fd6e363beb90e1b0b7f2376fb8ef519"><td class="memItemLeft" align="right" valign="top">void&#160;</td><td class="memItemRight" valign="bottom"><a class="el" href="read__sysfs__helper_8hpp.html#a5fd6e363beb90e1b0b7f2376fb8ef519">read_sysfs_with_config</a> (xclDeviceHandle device_handle, bool read_all, string subdev, string entry, unsigned int size, void *data)</td></tr>
-<tr class="separator:a5fd6e363beb90e1b0b7f2376fb8ef519"><td class="memSeparator" colspan="2">&#160;</td></tr>
+<tr class="memitem:a3a2b8407eb8a504ce33c1b08363262db"><td class="memItemLeft" align="right" valign="top">void&#160;</td><td class="memItemRight" valign="bottom"><a class="el" href="read__sysfs__helper_8hpp.html#a3a2b8407eb8a504ce33c1b08363262db">read_sysfs_with_config</a> (xclDeviceHandle device_handle, string subdev, string entry, unsigned int size, void *data)</td></tr>
+<tr class="separator:a3a2b8407eb8a504ce33c1b08363262db"><td class="memSeparator" colspan="2">&#160;</td></tr>
 </table>
 <h2 class="groupheader">Function Documentation</h2>
-<a class="anchor" id="a5fd6e363beb90e1b0b7f2376fb8ef519"></a>
+<a class="anchor" id="a3a2b8407eb8a504ce33c1b08363262db"></a>
 <div class="memitem">
 <div class="memproto">
       <table class="memname">
@@ -136,12 +137,6 @@ Functions</h2></td></tr>
           <td>(</td>
           <td class="paramtype">xclDeviceHandle&#160;</td>
           <td class="paramname"><em>device_handle</em>, </td>
-        </tr>
-        <tr>
-          <td class="paramkey"></td>
-          <td></td>
-          <td class="paramtype">bool&#160;</td>
-          <td class="paramname"><em>read_all</em>, </td>
         </tr>
         <tr>
           <td class="paramkey"></td>
@@ -179,7 +174,6 @@ Functions</h2></td></tr>
 <dl class="params"><dt>Parameters</dt><dd>
   <table class="params">
     <tr><td class="paramdir">[in]</td><td class="paramname">device_handle</td><td>the handle of the device we want to query the sysfs (sysfs is 1 per device) </td></tr>
-    <tr><td class="paramdir">[in]</td><td class="paramname">read_all</td><td>boolean that indicates if auto detect the size of the entry file </td></tr>
     <tr><td class="paramdir">[in]</td><td class="paramname">subdev</td><td>the name of the subdevice (e.g. xmc) </td></tr>
     <tr><td class="paramdir">[in]</td><td class="paramname">entry</td><td>the name of the entry (e.g. <a class="el" href="structdebug__ip__layout.html">debug_ip_layout</a>) </td></tr>
     <tr><td class="paramdir">[in]</td><td class="paramname">size</td><td>the size of the file to read, only used if read_all is set to false </td></tr>
@@ -188,7 +182,7 @@ Functions</h2></td></tr>
   </dd>
 </dl>
 
-<p>Definition at line <a class="el" href="read__sysfs__helper_8hpp_source.html#l00024">24</a> of file <a class="el" href="read__sysfs__helper_8hpp_source.html">read_sysfs_helper.hpp</a>.</p>
+<p>Definition at line <a class="el" href="read__sysfs__helper_8hpp_source.html#l00025">25</a> of file <a class="el" href="read__sysfs__helper_8hpp_source.html">read_sysfs_helper.hpp</a>.</p>
 
 </div>
 </div>

diff --git a/docs/developer/html/sysfs__demo_8cpp.html b/docs/developer/html/sysfs__demo_8cpp.html
@@ -107,15 +107,15 @@ Include dependency graph for sysfs_demo.cpp:</div>
 <area shape="rect" id="node2" href="xclhal2_8h_source.html" title="xclhal2.h" alt="" coords="217,177,292,203"/>
 <area shape="rect" id="node5" href="xclbin_8h_source.html" title="xclbin.h" alt="" coords="440,259,507,285"/>
 <area shape="rect" id="node7" href="xclperf_8h_source.html" title="xclperf.h" alt="" coords="5,333,77,360"/>
-<area shape="rect" id="node10" href="read__sysfs__helper_8hpp.html" title="read_sysfs_helper.hpp" alt="" coords="354,95,507,121"/>
-<area shape="rect" id="node14" href="visualize__debug__ip__layout__helper_8hpp.html" title="visualize_debug_ip\l_layout_helper.hpp" alt="" coords="570,169,702,211"/>
-<area shape="rect" id="node15" href="xclbin__helper_8hpp.html" title="xclbin_helper.hpp" alt="" coords="907,95,1029,121"/>
+<area shape="rect" id="node10" href="read__sysfs__helper_8hpp.html" title="read_sysfs_helper.hpp" alt="" coords="395,95,549,121"/>
+<area shape="rect" id="node15" href="visualize__debug__ip__layout__helper_8hpp.html" title="visualize_debug_ip\l_layout_helper.hpp" alt="" coords="610,169,742,211"/>
+<area shape="rect" id="node16" href="xclbin__helper_8hpp.html" title="xclbin_helper.hpp" alt="" coords="1007,95,1129,121"/>
 <area shape="rect" id="node8" href="xcl__app__debug_8h_source.html" title="xcl_app_debug.h" alt="" coords="195,259,315,285"/>
 <area shape="rect" id="node9" href="xclerr_8h_source.html" title="xclerr.h" alt="" coords="105,259,170,285"/>
-<area shape="rect" id="node11" href="config_8hpp.html" title="config.hpp" alt="" coords="552,259,635,285"/>
-<area shape="rect" id="node16" href="filesystem__helper_8hpp.html" title="filesystem_helper.hpp" alt="" coords="1007,177,1156,203"/>
-<area shape="rect" id="node17" href="environment__helper_8hpp.html" title="environment_helper.hpp" alt="" coords="1180,177,1340,203"/>
-<area shape="rect" id="node18" href="xclbin__repo__helper_8hpp.html" title="xclbin_repo_helper.hpp" alt="" coords="777,177,932,203"/>
+<area shape="rect" id="node11" href="config_8hpp.html" title="config.hpp" alt="" coords="609,259,692,285"/>
+<area shape="rect" id="node17" href="filesystem__helper_8hpp.html" title="filesystem_helper.hpp" alt="" coords="1281,177,1431,203"/>
+<area shape="rect" id="node18" href="environment__helper_8hpp.html" title="environment_helper.hpp" alt="" coords="1047,177,1207,203"/>
+<area shape="rect" id="node19" href="xclbin__repo__helper_8hpp.html" title="xclbin_repo_helper.hpp" alt="" coords="817,177,972,203"/>
 </map>
 </div>
 </div>

diff --git a/docs/developer/html/globals_func.html b/docs/developer/html/globals_func.html
@@ -111,7 +111,7 @@ var searchBox = new SearchBox("searchBox", "search",false,'Search');
 : <a class="el" href="probe__demo_8cpp.html#a0ddf1224851353fc92bfbff6f499fa97">probe_demo.cpp</a>
 </li>
 <li>read_sysfs_with_config()
-: <a class="el" href="read__sysfs__helper_8hpp.html#a5fd6e363beb90e1b0b7f2376fb8ef519">read_sysfs_helper.hpp</a>
+: <a class="el" href="read__sysfs__helper_8hpp.html#a3a2b8407eb8a504ce33c1b08363262db">read_sysfs_helper.hpp</a>
 </li>
 <li>search_xclbin_repository()
 : <a class="el" href="xclbin__repo__helper_8hpp.html#a214cd63d273601247231eb4efee47a60">xclbin_repo_helper.hpp</a>

diff --git a/docs/developer/html/globals.html b/docs/developer/html/globals.html
@@ -117,7 +117,7 @@ var searchBox = new SearchBox("searchBox", "search",false,'Search');
 : <a class="el" href="config_8hpp.html#a6180b66cb9f6a7b87262e38996479f85">config.hpp</a>
 </li>
 <li>read_sysfs_with_config()
-: <a class="el" href="read__sysfs__helper_8hpp.html#a5fd6e363beb90e1b0b7f2376fb8ef519">read_sysfs_helper.hpp</a>
+: <a class="el" href="read__sysfs__helper_8hpp.html#a3a2b8407eb8a504ce33c1b08363262db">read_sysfs_helper.hpp</a>
 </li>
 <li>search_xclbin_repository()
 : <a class="el" href="xclbin__repo__helper_8hpp.html#a214cd63d273601247231eb4efee47a60">xclbin_repo_helper.hpp</a>

diff --git a/docs/developer/html/search/all_d.js b/docs/developer/html/search/all_d.js
@@ -1,5 +1,5 @@
 var searchData=
 [
   ['read_5fsysfs_5fhelper_2ehpp',['read_sysfs_helper.hpp',['../read__sysfs__helper_8hpp.html',1,'']]],
-  ['read_5fsysfs_5fwith_5fconfig',['read_sysfs_with_config',['../read__sysfs__helper_8hpp.html#a5fd6e363beb90e1b0b7f2376fb8ef519',1,'read_sysfs_helper.hpp']]]
+  ['read_5fsysfs_5fwith_5fconfig',['read_sysfs_with_config',['../read__sysfs__helper_8hpp.html#a3a2b8407eb8a504ce33c1b08363262db',1,'read_sysfs_helper.hpp']]]
 ];

diff --git a/docs/developer/html/search/functions_7.js b/docs/developer/html/search/functions_7.js
@@ -1,4 +1,4 @@
 var searchData=
 [
-  ['read_5fsysfs_5fwith_5fconfig',['read_sysfs_with_config',['../read__sysfs__helper_8hpp.html#a5fd6e363beb90e1b0b7f2376fb8ef519',1,'read_sysfs_helper.hpp']]]
+  ['read_5fsysfs_5fwith_5fconfig',['read_sysfs_with_config',['../read__sysfs__helper_8hpp.html#a3a2b8407eb8a504ce33c1b08363262db',1,'read_sysfs_helper.hpp']]]
 ];
